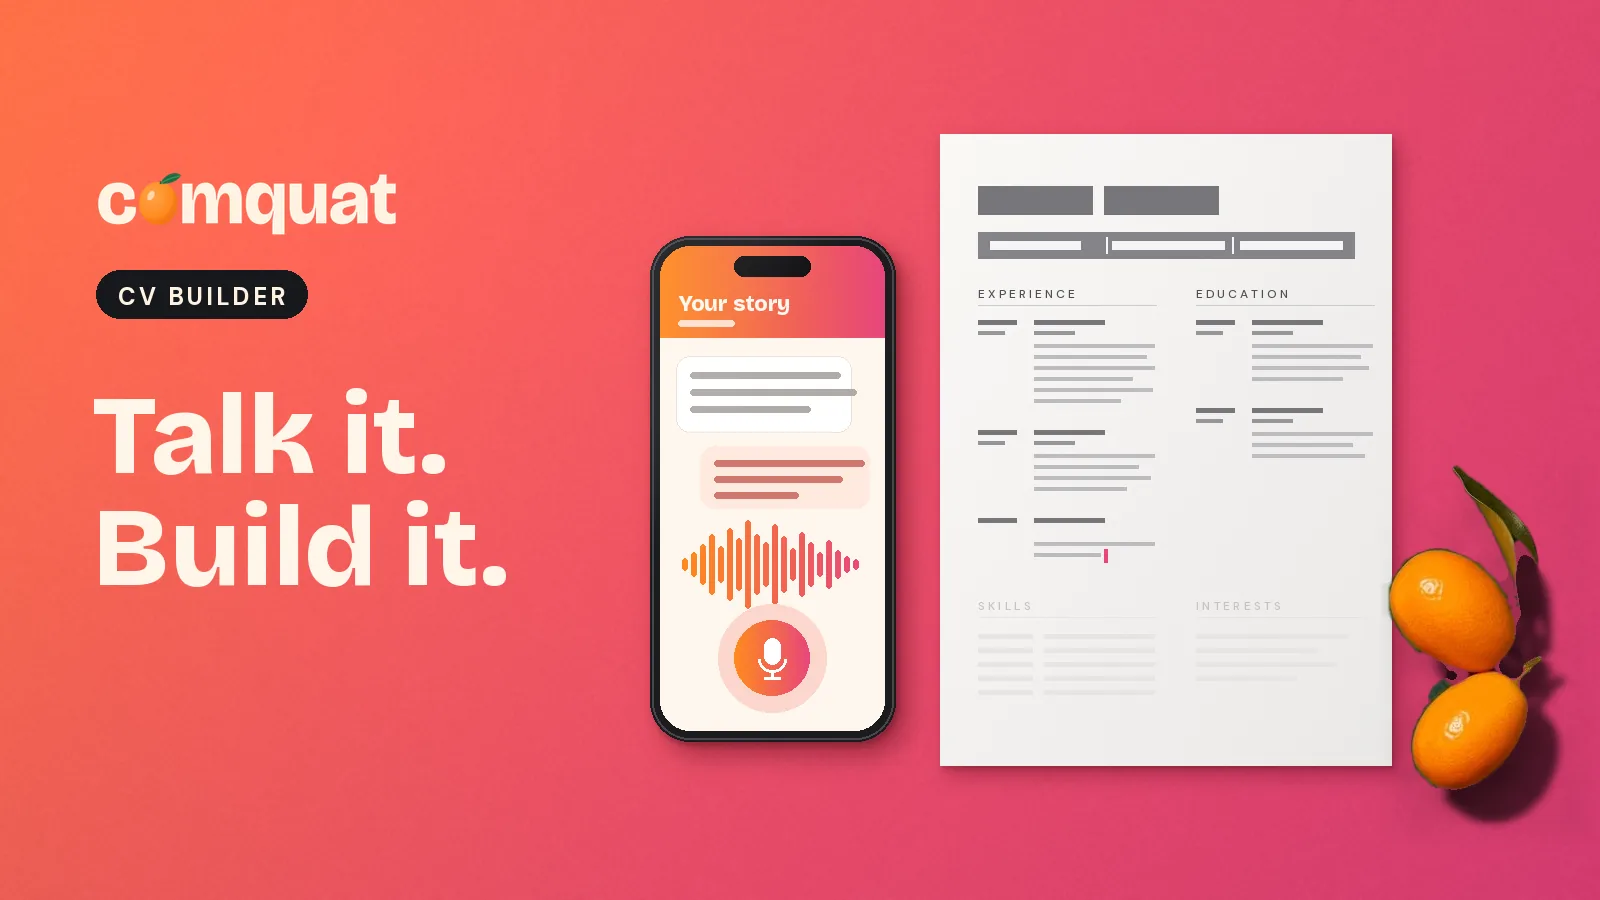
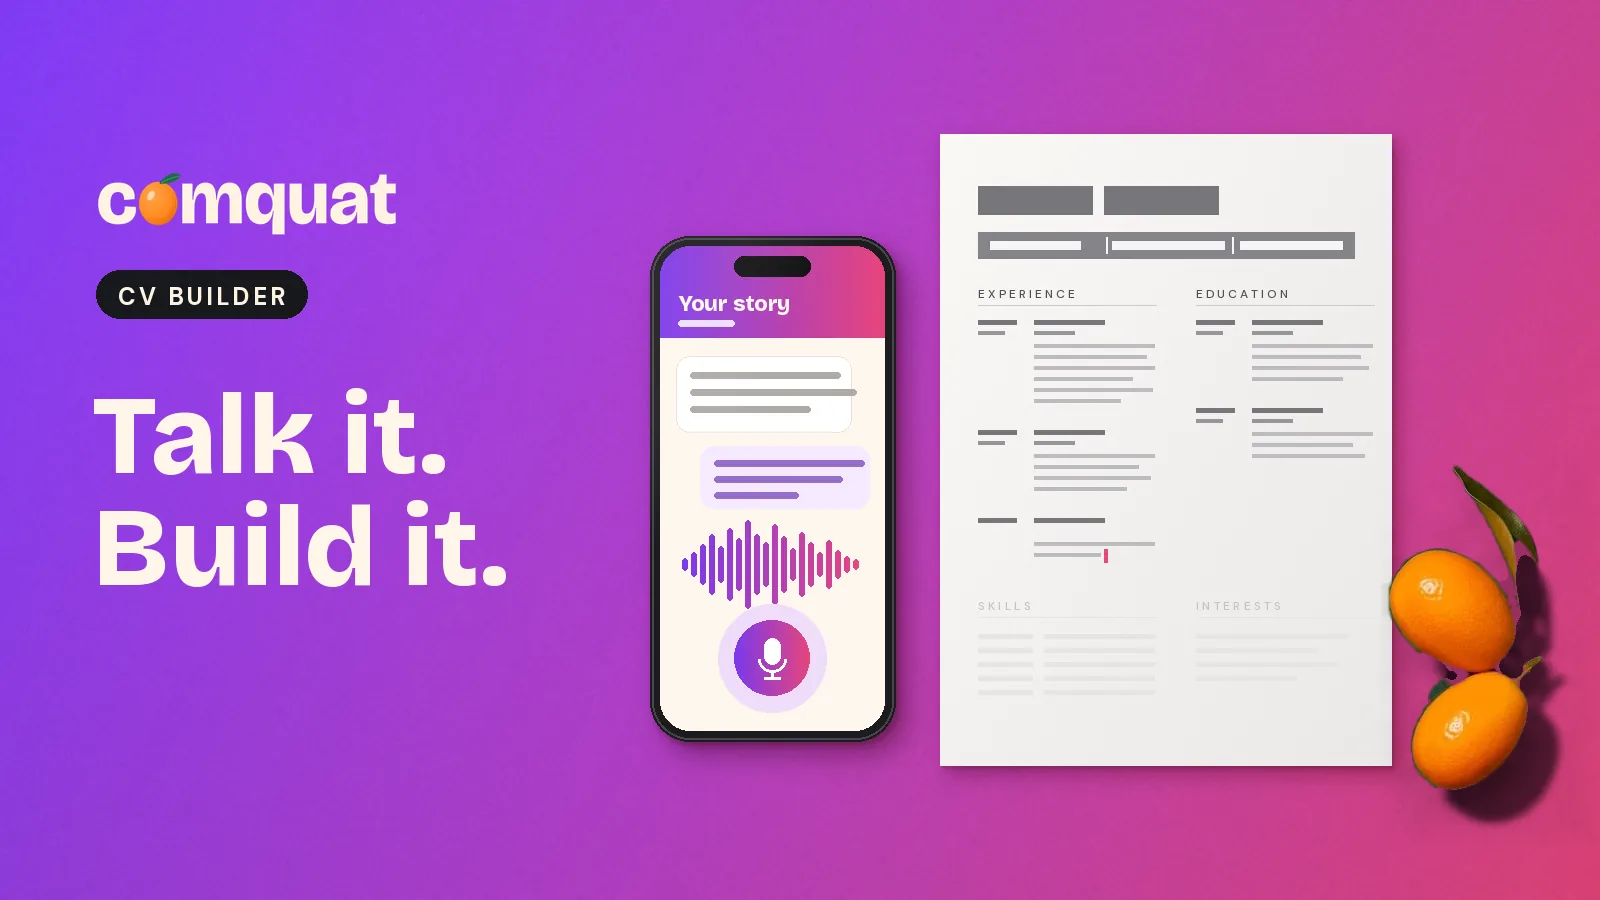
CV Builder: purple to pink everywhere, matching its My account card
Claude-Session: https://claude.ai/code/session_01Dmn5yCYvgMEe5U6Fu11tqf

diff --git a/index.html b/index.html
@@ -144,7 +144,7 @@
     <div class="cards four">
       <article class="card"><a class="top art orange poster lockup" style="background-image:url('img/comquat-interview-prep-hero.jpg');background-image:image-set(url('img/comquat-interview-prep-hero.webp') type('image/webp'),url('img/comquat-interview-prep-hero.jpg') type('image/jpeg'));background-position:left center" href="prep-report.html" aria-label="Comquat Interview Prep"><svg class="ico" viewBox="0 0 24 24"><use href="#star"/></svg></a><div class="in"><h3>Comquat Interview Prep</h3><p>Paste your CV and the job spec. Get back a researched, tailored interview prep report, ready in minutes.</p><div class="foot"><span class="tag free">Free</span><a class="go" href="prep-report.html">Get the report &rarr;</a></div></div></article>
       <article class="card"><a class="top art teal poster lockup" style="background-image:url('img/comquat-cv-rewrite-hero.jpg');background-image:image-set(url('img/comquat-cv-rewrite-hero.webp') type('image/webp'),url('img/comquat-cv-rewrite-hero.jpg') type('image/jpeg'));background-position:left center" href="https://cv.the-common-people.com" aria-label="Comquat CV Rewrite"><svg class="ico" viewBox="0 0 24 24"><use href="#cv"/></svg></a><div class="in"><h3>Comquat CV Rewrite</h3><p>Paste your CV and the advert. Get back a rewritten, honesty-checked CV in a design you choose.</p><div class="foot"><span class="tag free">Free</span><a class="go" href="https://cv.the-common-people.com">Rewrite my CV &rarr;</a></div></div></article>
-      <article class="card"><a class="top art orange poster lockup" style="background-image:url('img/comquat-cv-builder-hero.jpg');background-image:image-set(url('img/comquat-cv-builder-hero.webp') type('image/webp'),url('img/comquat-cv-builder-hero.jpg') type('image/jpeg'));background-position:left center" href="https://cv.the-common-people.com/account/?mode=signup&amp;next=%2Faccount%2Fme.html" aria-label="Comquat CV Builder"><svg class="ico" viewBox="0 0 24 24"><use href="#cv"/></svg></a><div class="in"><h3>Comquat CV Builder</h3><p>No CV yet? Talk it through and watch your first CV build itself. Free with a Comquat account.</p><div class="foot"><span class="tag free">Free account</span><a class="go" href="https://cv.the-common-people.com/account/?mode=signup&amp;next=%2Faccount%2Fme.html">Create my free account &rarr;</a></div></div></article>
+      <article class="card"><a class="top art orange poster lockup" style="background-image:url('img/comquat-cv-builder-hero.jpg?v=2');background-image:image-set(url('img/comquat-cv-builder-hero.webp?v=2') type('image/webp'),url('img/comquat-cv-builder-hero.jpg?v=2') type('image/jpeg'));background-position:left center" href="https://cv.the-common-people.com/account/?mode=signup&amp;next=%2Faccount%2Fme.html" aria-label="Comquat CV Builder"><svg class="ico" viewBox="0 0 24 24"><use href="#cv"/></svg></a><div class="in"><h3>Comquat CV Builder</h3><p>No CV yet? Talk it through and watch your first CV build itself. Free with a Comquat account.</p><div class="foot"><span class="tag free">Free account</span><a class="go" href="https://cv.the-common-people.com/account/?mode=signup&amp;next=%2Faccount%2Fme.html">Create my free account &rarr;</a></div></div></article>
       <article class="card"><a class="top art teal poster lockup" style="background-image:url('img/guide-cv-hero.jpg');background-image:image-set(url('img/guide-cv-hero.webp') type('image/webp'),url('img/guide-cv-hero.jpg') type('image/jpeg'));background-position:left center" href="guides.html"><svg class="ico" viewBox="0 0 24 24"><use href="#book"/></svg></a><div class="in"><h3>Field Guides</h3><p>Practical guides to every stage of the job hunt, from your CV to the interview. Written from inside the process.</p><div class="foot"><span class="tag free">Free</span><a class="go" href="guides.html">Read the guides &rarr;</a></div></div></article>
     </div>
     <p class="door-note">Rather talk it through with a person? Book a one-to-one CV or interview coaching call with Neil, &pound;45 for 30 minutes. It's the one thing we charge for. <a href="https://cal.com/the-common-people.com/interviewcoaching" target="_blank" rel="noopener">Book a coaching call &rarr;</a></p>

diff --git a/comquat.html b/comquat.html
@@ -109,7 +109,7 @@
     <div class="cards">
       <article class="card"><a class="top art orange poster lockup" style="background-image:url('img/comquat-interview-prep-hero.jpg');background-image:image-set(url('img/comquat-interview-prep-hero.webp') type('image/webp'),url('img/comquat-interview-prep-hero.jpg') type('image/jpeg'));background-position:left center" href="https://prep.the-common-people.com" aria-label="Interview Prep"></a><div class="in"><h3>Interview Prep</h3><p>Paste your CV and the job description. Get back a prep report: research on the company, a tailored opening pitch and the questions to get ready for.</p><div class="foot"><span class="tag free">Free</span><a class="go" href="https://prep.the-common-people.com">Get my prep report &rarr;</a></div></div></article>
       <article class="card"><a class="top art teal poster lockup" style="background-image:url('img/comquat-cv-rewrite-hero.jpg');background-image:image-set(url('img/comquat-cv-rewrite-hero.webp') type('image/webp'),url('img/comquat-cv-rewrite-hero.jpg') type('image/jpeg'));background-position:left center" href="https://cv.the-common-people.com" aria-label="CV Rewrite"></a><div class="in"><h3>CV Rewrite</h3><p>Paste your CV and the job advert. We spot what's missing, ask a few quick questions, then rewrite it for that one job, in your own words. Nothing invented.</p><div class="foot"><span class="tag free">Free</span><a class="go" href="https://cv.the-common-people.com">Rewrite my CV &rarr;</a></div></div></article>
-      <article class="card"><a class="top art orange poster lockup" style="background-image:url('img/comquat-cv-builder-hero.jpg');background-image:image-set(url('img/comquat-cv-builder-hero.webp') type('image/webp'),url('img/comquat-cv-builder-hero.jpg') type('image/jpeg'));background-position:left center" href="https://cv.the-common-people.com/account/?mode=signup&amp;next=%2Faccount%2Fme.html" aria-label="CV Builder"></a><div class="in"><h3>CV Builder</h3><p>No CV yet, or starting again? Talk or type your answers, tick what sounds like you, and watch your CV build itself as you go.</p><div class="foot"><span class="tag free">Free account</span><a class="go" href="https://cv.the-common-people.com/account/?mode=signup&amp;next=%2Faccount%2Fme.html">Create my free account &rarr;</a></div></div></article>
+      <article class="card"><a class="top art orange poster lockup" style="background-image:url('img/comquat-cv-builder-hero.jpg?v=2');background-image:image-set(url('img/comquat-cv-builder-hero.webp?v=2') type('image/webp'),url('img/comquat-cv-builder-hero.jpg?v=2') type('image/jpeg'));background-position:left center" href="https://cv.the-common-people.com/account/?mode=signup&amp;next=%2Faccount%2Fme.html" aria-label="CV Builder"></a><div class="in"><h3>CV Builder</h3><p>No CV yet, or starting again? Talk or type your answers, tick what sounds like you, and watch your CV build itself as you go.</p><div class="foot"><span class="tag free">Free account</span><a class="go" href="https://cv.the-common-people.com/account/?mode=signup&amp;next=%2Faccount%2Fme.html">Create my free account &rarr;</a></div></div></article>
     </div>
   </div>
 </section>
